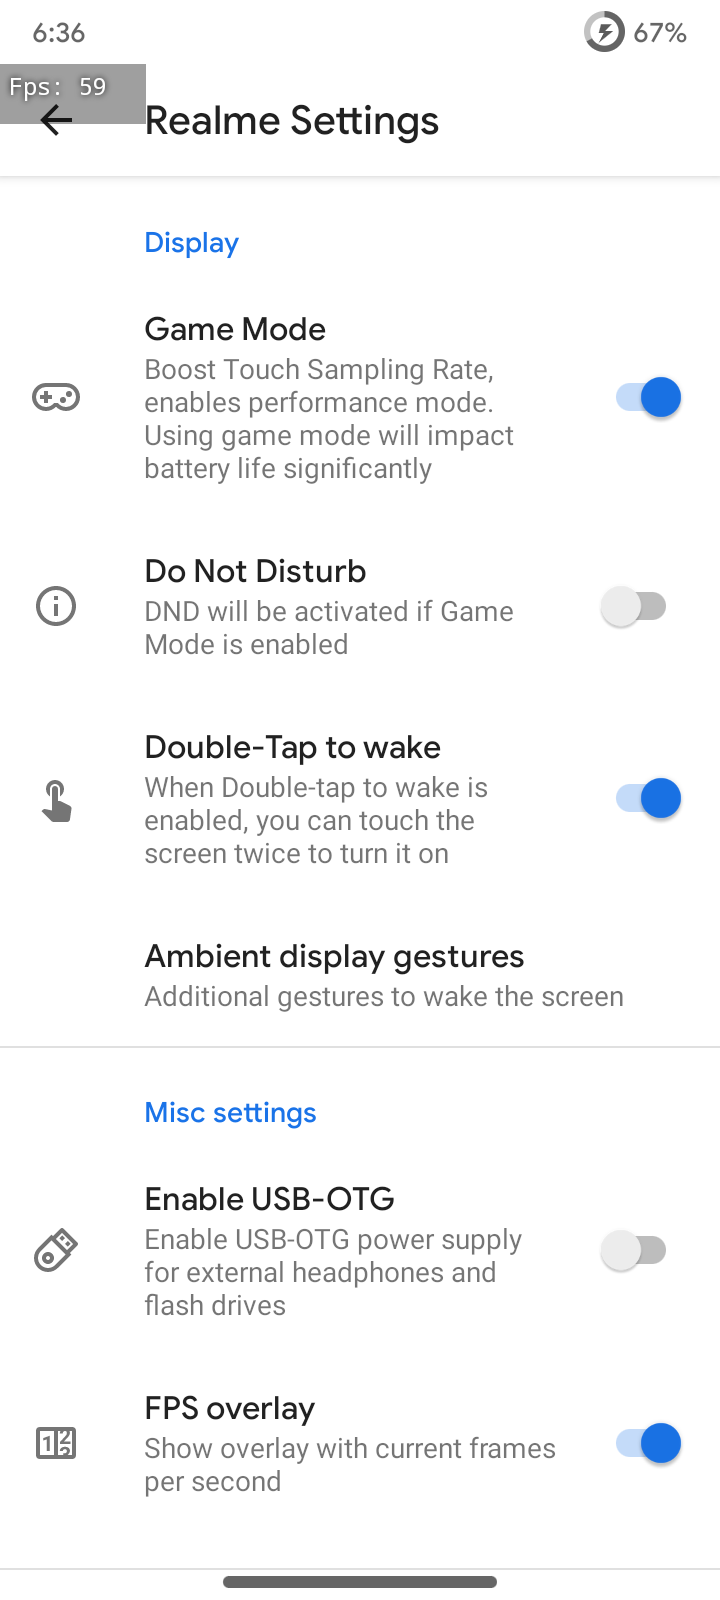
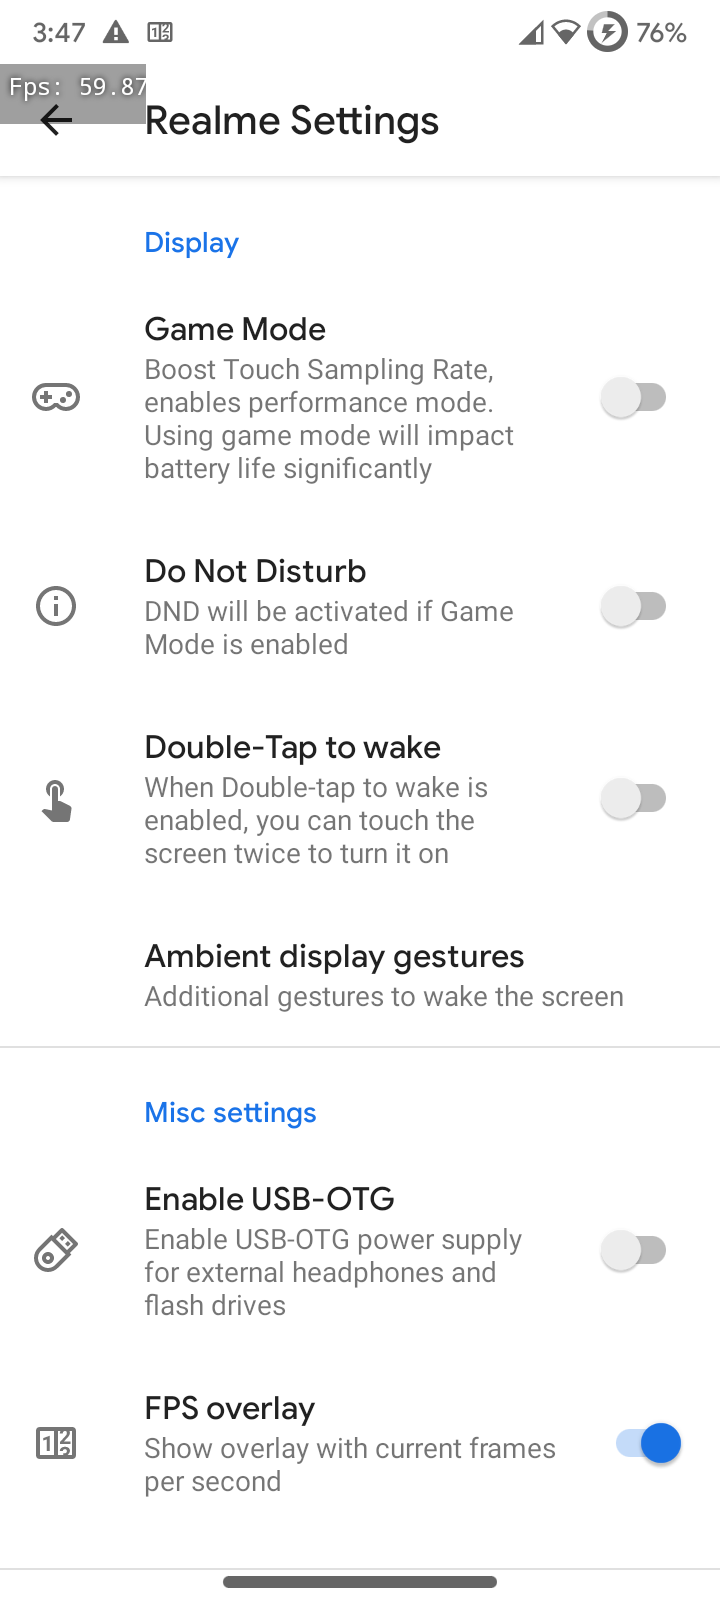
docs: add Realme Settings & live FPS overlay screenshots
- Capture Realme Settings hub with Game Mode, DND, Gestures, USB-OTG, and FPS overlay toggles
- Capture active FPS overlay toggle in Realme Settings
- Capture real-time FPS counter rendering over Homescreen via HWC
- Update README.md screenshots gallery with RealmeParts & Hardware Diagnostics section

diff --git a/README.md b/README.md
@@ -85,6 +85,11 @@ A fast, daily-driver **Android 10 (Q) Custom ROM (Port)** for the **Realme Narzo
 | :---: | :---: | :---: | :---: | :---: |
 | <img src="./screenshots/05_keepqassa_menu.png" width="180" alt="#keepQASSA Features Hub" /> | <img src="./screenshots/06_spoofing_menu.png" width="180" alt="Device Spoofing Suite" /> | <img src="./screenshots/07_play_integrity_fix.png" width="180" alt="Custom Play Integrity Fix (pif.json)" /> | <img src="./screenshots/08_livedisplay_picture_adjustment.png" width="180" alt="LiveDisplay Color HSIC Calibration" /> | <img src="./screenshots/09_launcher_search_toggle.png" width="180" alt="Shady Launcher Search Toggle" /> |
 
+### RealmeParts & Hardware Diagnostics
+| Realme Settings Hub | FPS Meter Active | Real-Time FPS on Homescreen |
+| :---: | :---: | :---: |
+| <img src="./screenshots/11_realme_settings.png" width="180" alt="Realme Settings Hub" /> | <img src="./screenshots/12_fps_overlay_active.png" width="180" alt="Realme Settings FPS Toggle Active" /> | <img src="./screenshots/13_homescreen_fps_overlay.png" width="180" alt="Real-Time FPS Meter on Homescreen" /> |
+
 ---
 
 <a id="downloads"></a>
